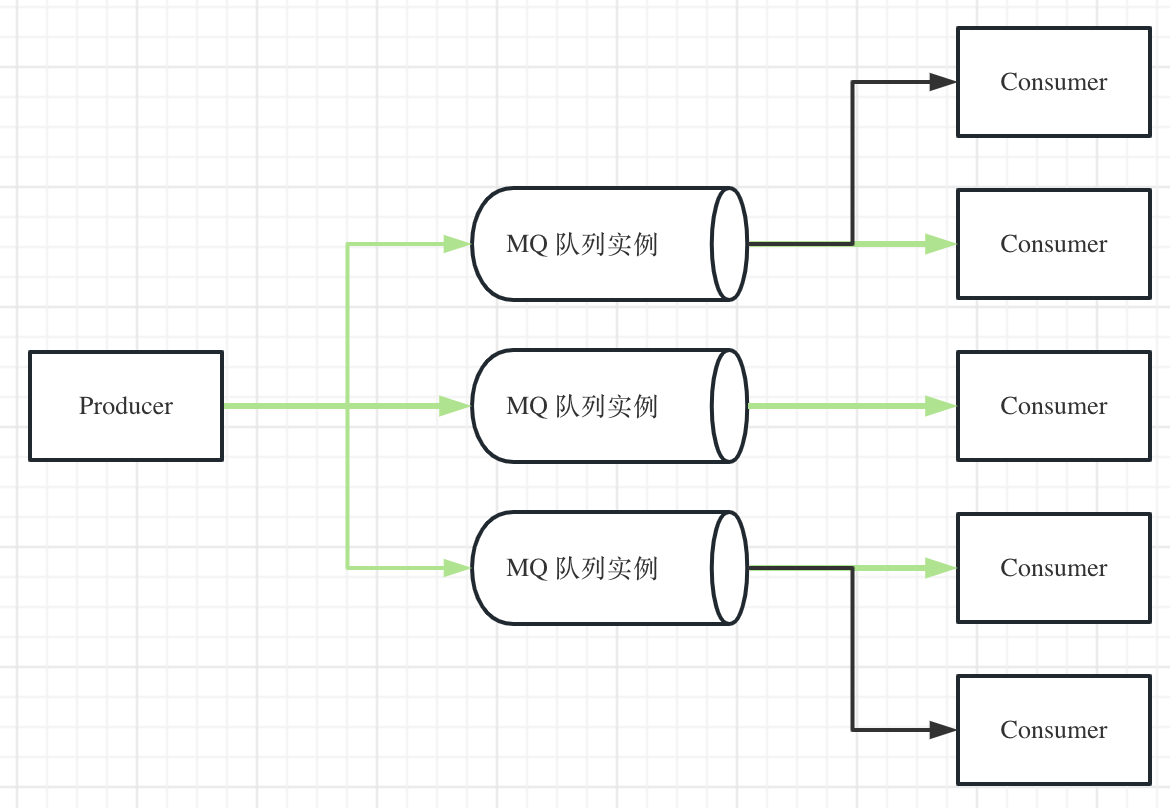
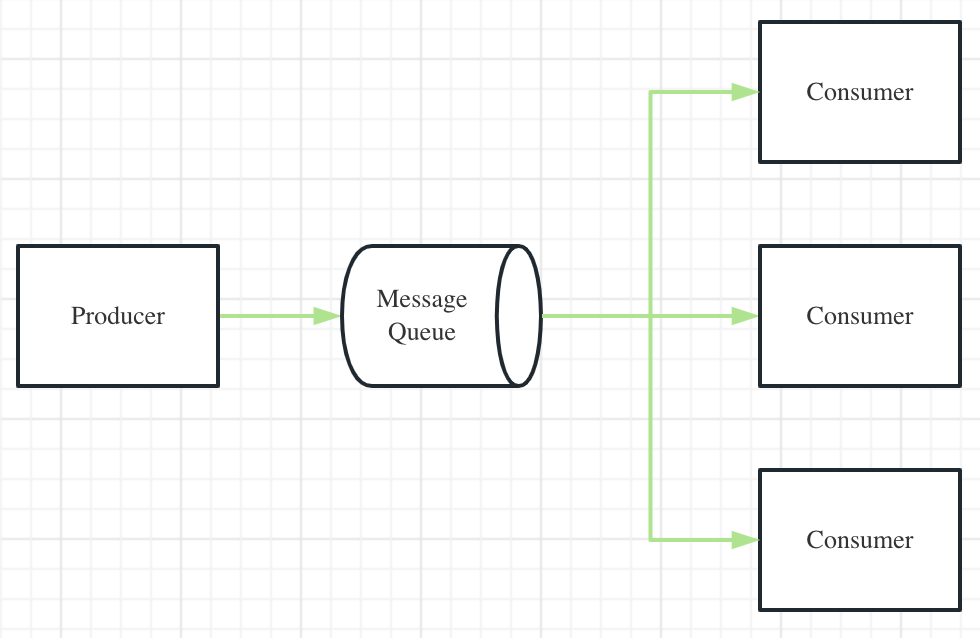
消息队列

diff --git a/_posts/2023-04-01-mq.md b/_posts/2023-04-01-mq.md
@@ -4,7 +4,7 @@ title: 消息队列的基本概念
 date: 2023-04-01 10:15:00+0800
 description: 消息队列概念梳理
 tags: MQ
-categories: Database MQ
+categories: MQ
 giscus_comments: true
 
 toc:
@@ -12,6 +12,7 @@ toc:
   - name: 为什么引入消息队列
   - name: 消息队列的使用场景
   - name: 消息队列关注的功能
+  - name: 总结
 ---
 
 # 什么是消息队列
@@ -140,7 +141,7 @@ public void effectGrant(GrantModel grant) {
 - 如何在多个消费者之间做负载均衡；
 - 消息长时间积压怎么处理；
 
-等等。这些问题都需要在设计系统之初就考虑清楚。
+等等。这些问题都需要在设计系统之初就考虑清楚。这种模式下 MQ 通常使用 `Pull` 方式投递消息，由消费者决定接收消息的时机。
 
 ## 发布/订阅
 
@@ -152,10 +153,10 @@ public void effectGrant(GrantModel grant) {
     </div>
 </div>
 <div class="caption">
-    发布/订阅模式，特点是一个消息发送到多个队列中
+    发布/订阅模式，特点是一个消息被多个消费者接收
 </div>
 
-通常发布/订阅模式和点对点模式是配套出现的，从系统整体看是发布/订阅，从某个事件的消费上看，又是点对点模式。因此点对点模式中需要注意的问题，这里也都需要考虑。
+发布订阅模式在消息队列中也被称为主题（Topic）模式，含义是类似的。MQ 不关心有多少消费者需要接收当前消息，只需要把消息发送给订阅了主题的消费者即可。这种模式下 MQ 通常是使用 `Push` 方式推送消息。
 
 ## 请求/响应
 
@@ -178,3 +179,210 @@ public void effectGrant(GrantModel grant) {
 
 上面提到的异步、解耦和削峰三个作用是站在系统层面的抽象描述，当我们真正需要设计一个消息队列时，需要考虑哪些功能？
 
+首先我们看一下消息队列的基本工作原理：
+<div class="row mt-3">
+    <div class="col-sm mt-3 mt-md-0">
+        {% include figure.html path="assets/img/mq.png" class="img-fluid rounded z-depth-1"%}
+    </div>
+</div>
+<div class="caption">
+    MQ 的基本工作原理
+</div>
+
+生产者和消费者是系统中单独的微服务，从图中我们可以看到在 MQ 工作过程中，需要关注的三个节点：
+1. 生产者到 MQ 的链路；
+2. MQ 本身的工作状态；
+3. MQ 到消费者的链路；
+
+下面列出消息队列在实际应用中常见的一些场景和问题，分别从这三个方面分析如何实现。
+
+## 1. 如何确保消息不丢失
+
+消息不丢失的含义是：生产端发送的消息，最终一定会被消费端成功消费。消息丢失有时候不是必须处理的问题，这取决于业务场景。
+
+在 MQTT 协议中，定义了三种传递消息的[规范](https://docs.oasis-open.org/mqtt/mqtt/v5.0/os/mqtt-v5.0-os.html#_Toc3901234)，这三种规范从低到高为：
+
+| code | name | 说明 |
+|------|-------|------|
+| Qos 0 | At most once delivery | 最多交付一次。也就是说允许丢失消息，但不会有重复消息。一般用在对消息可靠性不高的场景，比如监控数据、日志信息等，允许少量数据丢失
+| Qos 1 | At least once delivery | 最少交付一次。也就是说不允许丢失消息，但会有重复消息
+| Qos 2 | Exactly once delivery | 恰好交付一次。不允许丢失消息，也不允许重复消息。这是最高的级别。在分布式系统中，这是[不可能实现](https://bravenewgeek.com/you-cannot-have-exactly-once-delivery/) 的。业务上可以配合幂等操作模拟 `Exactly once` 的语义
+
+大多数消息队列都实现了 Qos 1 级别的语义，也就是说可以实现消息不丢失，但会有消息重复的情况。
+
+### 发送端如何保证
+
+发送端有三种发送消息的策略：
+
+| 发送策略 | 说明 |
+|----------|------|
+| 同步 | 生产者向 MQ 发起发送消息的 RPC 请求，线程阻塞等待 MQ 的响应。只有当 MQ 返回成功的响应时，生产者才认为消息发送成功。这种方式适用于生产者需要 *实时* 得知消息发送的结果，属于实时性比较强的消息处理方式
+| 异步 | 生产者向 MQ 发送消息，当前流程就完成了。消息是否发送成功，后续由其他线程判断处理。通常可以采用轮询消息发送结果、MQ 发起回调通知等方式获取消息的发送状态，这种方式适用于较为重要，但不需要当时关心发送结果的消息
+| Oneway | 生产者发送消息后就不再关注后续结果。适用于不太重要的消息，丢失个别消息也不影响处理的场景，例如监控指标、INFO 日志等
+
+上面提到的三种发送策略，首先 `Oneway` 是无法保证消息在发送过程中不丢失的，同步和异步两种方式生产者都可以得知消息的发送状态，如果 MQ 超时未返回或者返回错误的结果，生产者就可以通过重试继续发送消息，直到确认消息发送成功。
+
+### MQ 端如何保证
+
+MQ 把接收到的消息首先存放在内存中。内存中消息随着服务断电就会丢失，如果要保证可靠的消息传递，MQ 需要将接收到的消息持久化，然后再向生产者返回确认信息。
+
+### 消费端如何保证
+
+消费端需要确保消息正常处理后，再发送 `ack` 给 MQ，通知 MQ 可以移除该消息。如果消费端的响应因为网络问题等原因没有返回给 MQ，MQ 就不能移除该消息，需要尝试再次投递。这种处理方式可能导致重复消费问题，需要下游业务做幂等处理（通过数据库唯一主键，或者在 Redis 中保存消费过的消息等方式）。
+
+> 重试是一种业务上的冗余保证，但这种方式也会带来一些问题：
+> 1. 正如上面提到的，重试会有重复消费的问题；
+> 2. 有些情况重试没有意义，只会消耗资源，例如业务逻辑异常或者下游服务宕机等；
+> 3. 如果下游服务压力太大导致响应变慢，这时候重试只会加剧下游的压力；
+
+## 2. 如何保证顺序消费
+
+顺序消费的含义是：消费端严格按照生产端发送消息的顺序进行消费，上一个消息没有消费完成之前，不允许消费下一个消息。因为在许多场景下，消息对应的业务都有严格的先后顺序，比如 `下单 -> 支付 -> 扣减库存`，如果顺序搞反，会出现不可预估的错误。
+
+我们先看一下，MQ 在什么场景下会出现消息顺序错误的情况。首先进入到队列中的消息是有序的，假设队列中存在三条消息：`C -> B -> A`，需要严格按照 ABC 的顺序执行。有两个消费端（C1 & C2）订阅该队列的消息。假设 C1 首先获取到消息 A 进行消费，C2 获取到消息 B 进行消费，此时 C1 因为故障或网络问题导致消费失败，但 C2 消费 B 消息成功，此时 C2 再次获取下一个消息，就会获取到未消费的 A 消息，导致消息的消费顺序错误。
+
+消费顺序错误的根本原因是有多个消费端同时消费同一个队列的消息。因为不同消费端的消费速度不同，甚至是消费结果都无法事先预估，消费失败后进行重试，就会出现顺序不一致的情况。因此限制消费顺序需要从根本上避免多个消费端争抢消息的局面。常规的处理方式就是一个队列对应一个消费端，发送端将相同业务发送到固定的队列中，消费端在消费成功后返回 `ack`，防止出现消息丢失，也严格限制了消费顺序。
+
+## 3. 如何处理重复消息
+
+在消息不丢失的问题中已经阐述过，MQ 是无法避免重复消息的。通常的做法是在消费端做好幂等处理，即使接收到重复消息也可以减小影响。
+
+通过给消息附加业务唯一性标识 key，消费端保存消费过的消息唯一 key，判断该消息是否已经消费过。
+
+> 参考：[如何处理消费过程中的重复消息](https://learn.lianglianglee.com/%E4%B8%93%E6%A0%8F/%E6%B6%88%E6%81%AF%E9%98%9F%E5%88%97%E9%AB%98%E6%89%8B%E8%AF%BE/06%20%20%E5%A6%82%E4%BD%95%E5%A4%84%E7%90%86%E6%B6%88%E8%B4%B9%E8%BF%87%E7%A8%8B%E4%B8%AD%E7%9A%84%E9%87%8D%E5%A4%8D%E6%B6%88%E6%81%AF%EF%BC%9F.md)
+
+但幂等处理有局限性，除非是没有副作用的消息，比如内存中计算、落库等操作，可以通过一定手段达到幂等。但如果消息有副作用，例如发送邮件，这个保证幂等就比较困难了，需要做很多额外工作，最好的方式是将副作用从消息中拆分出来单独处理。
+
+## 4. 如何处理消息积压
+
+消息积压的含义是：下游消费端的消费能力小于上游服务的生产能力，导致 MQ 内积压了大量消息来不及消费。这种情况如果不及时处理，就可能导致 MQ 服务崩溃，引起更大的故障。
+
+### 发送端如何处理
+
+发送端对于消息积压，能做的不多。最多的就是梳理业务逻辑，减少不必要的消息。如果发送端由于突发流量导致消息激增，可以根据业务场景决定是否采取服务降级处理，减少下游的压力。
+
+### MQ 如何处理
+
+MQ 事先预留好足够的容量存放消息。如果遇到上游的突发流量，超过了 MQ 本身的负载能力，需要紧急扩容。MQ 的扩容有两种思路：
+- 横向扩容。增加 MQ 集群的节点，提高系统整体的吞吐量。如何进行热扩容，是需要考虑的问题；
+- 纵向扩容。增加 MQ 锁在物理机的内存和磁盘容量。
+
+如果 MQ 积压的消息已经触发了磁盘存储的阈值，这种情况有两种处理方式：
+1. 采取 `背压 backpressure` 的策略，对发送端返回错误消息，拒绝发送端后续的消息，直到 MQ 本身的压力得到缓解。这种方式适用于不太重要的业务和消息；
+2. 如果是重要数据，这个时候就没有其他办法了，只能先丢弃一部分数据，事后再进行补偿。
+
+### 消费端如何处理
+
+消费端的消费能力赶不上发送端的发送速度，这是消息积压的根本原因。因此如果 MQ 已经发生消息积压，就需要紧急提高消费端的处理能力。通常的处理方式是临时扩容：
+
+1. 首先如果是 consumer 出现 bug 导致消费失败，需要尽快修复或回滚代码，恢复 consumer 的消费能力；
+2. 然后临时在 MQ 上创建原先 10 倍或者 20 倍的队列，写一个临时分发消息的程序，将积压的消息分发到扩容后的队列上；
+3. 部署原先 10 倍的 consumer 实例，用来消费新队列的消息；
+4. 当 MQ 中的消息被消费完之后，视情况恢复原先的架构；
+
+如果消息设置了过期时间（RabbitMQ 可以设置消息的 TTL），超过过期时间的数据会被 MQ 丢弃，这个时候就不是消息积压，而是丢失数据了。这种情况临时扩容已经来不及，只能事后补偿。在流量低谷时间段，手动查询丢失的数据，把消息重新发送到 MQ 中再次消费。
+
+## 5. 如何支持事务消息
+
+什么是事务消息？不同的 MQ 对此的定义不同。
+
+RocketMQ 的定义是 *绑定在发送端本地事务上的消息，事务提交和消息成功发送是一组原子性操作，只能同时成功或失败*，这个定义接近于我们通常理解的事务。
+Kafka 的定义是 *发送多个跨 partition 的消息，保证这些消息同时成功或同时失败，没有中间状态*，这是 Kafka 在流式数据中保证 `Exactly once delivery` 的机制。
+
+我们这里讨论 RocketMQ 语义的事务消息。先看一下通过传统消息如何支持事务消息的语义：
+
+{% mermaid %}
+sequenceDiagram
+    participant P as Producer
+    participant MQ as Message Queue
+    Note left of P: 本地事务已提交
+    P->>+MQ: send msg
+    MQ->>-P: response
+{% endmermaid %}
+<div class="caption">
+  本地事务提交后再向消息队列发送消息
+</div>
+
+> 为什么不在事务内最后发送消息？如果网络延迟高的话，事务就会长时间不结束，事务内锁定的资源也就无法释放，会影响系统的性能。因此最好避免大事务
+
+这种方式可以实现大部分事务消息的功能，但也有一些意外情况需要处理，后面我们统一描述。
+
+接下来我们看一下 *事务消息* 是如何处理的：
+{% mermaid %}
+sequenceDiagram
+    participant P as Producer
+    participant MQ as Message Queue
+    Note over P,MQ: 半消息是消费端无法获取的消息
+    P->>+MQ: send half msg
+    MQ->>-P: response
+    activate P
+    Note left of P: 开始执行本地事务
+    deactivate P
+    alt 本地事务提交
+        P->>+MQ: send commit msg
+        Note right of MQ: 投递半消息
+        MQ->>-P: response
+    else 本地事务回滚
+        P->>+MQ: send rollback msg
+        Note right of MQ: 删除半消息
+        MQ->>-P: response
+    end
+    opt 如果确认消息发送发送失败
+        P--xMQ: send commit/rollback msg failed
+        Note right of MQ: MQ 主动检查事务状态
+        MQ->>P: check transaction status
+    end
+{% endmermaid %}
+<div class="caption">
+  RocketMQ 的事务消息处理流程
+</div>
+
+参考[RocketMQ 的事务消息](https://rocketmq.apache.org/zh/docs/featureBehavior/04transactionmessage/)：
+<div class="row mt-3">
+    <div class="col-sm mt-3 mt-md-0">
+        {% include figure.html path="assets/img/rocketmq-trans.png" class="img-fluid rounded z-depth-1"%}
+    </div>
+</div>
+
+现在对比一下传统消息和事务消息在一些异常情况下对事务的支持：
+
+| 问题 | 传统消息 | 事务消息 |
+|-----|----------|-----------|
+| 正常的分布式事务 | 支持 | 支持 
+| 生产者提交本地事务后意外宕机 | 需要额外的补偿机制 | MQ 主动查询事务状态，如果是生产者是集群则不影响下游业务，否则会主动回滚半消息，业务上再进行额外补偿
+| 生产者提交本地事务后发送消息失败 | 本地重试，多次重试不成功就额外补救 | 如果是网络抖动，MQ 的主动轮询机制能自动恢复事务，不影响下游业务
+| 生产者无法确认消息是否发送 | 本地重试，可能导致重复消息，需要下游做幂等处理 | MQ 可以过滤重复消息，不影响下游
+
+可以发现，事务消息对待异常情况，有更多的容错机制，可以更好地支持分布式事务。
+
+## 6. 如何支持延时消息
+
+延时消息的定义是：生产端发送消息，消息需要等待一段时间后才能被消费端接收。
+
+延时消息常见的使用场景包括：下单成功后发送检查支付的延时 30 min 的消息，下游服务最终消费消息时判断订单是否支付，如果没有支付就取消该订单。
+
+目前市面上开源的消息队列中，RocketMQ 是原生支持延时消息的（但开源版本和商业版本支持力度不同）；RabbitMQ 本身不支持，可以通过插件支持，也可以通过死信队列支持；Kafka 本身也不支持延时消息。
+
+> 参考：[如何在 MQ 中实现支持任意延迟的消息？](https://www.cnblogs.com/hzmark/p/mq-delay-msg.html)
+
+个人感觉延时消息最好的实现方式是在生产端。通过定时任务处理，只有在需要的时间点才生成消息发送给 MQ，这样 MQ 也无需消耗额外的资源去处理这些暂时无法消费的消息。
+
+## 7. 如何支持优先级消息
+
+优先级消息的含义是：让 MQ 按照消息优先级投递，高优先级的消息可以“插队”进行优先处理，优先级消息可以保证在下游消费端消费能力有限，MQ 开始积压消息时，优先处理高优先级的消息。
+
+优先级消息适用于相同业务但处理对象有等级区分的场景，比如同样是下单操作，服务会给 VIP 会员提供更大的可用性保证。
+
+RabbitMQ 在 3.5.0 版本开始支持优先级队列，需要事先配置好队列优先级，不可以动态调整。RocketMQ 和 Kafka 不支持优先级队列。 
+
+## 8. 如何实现 MQ 高可用
+
+MQ 作为微服务架构下重要的中间件，如果出现故障，会同时影响上下游的业务，因此保证 MQ 自身的高可用十分重要。
+
+RabbitMQ 支持镜像集群模式，集群中所有节点存放相同的数据，如果某个节点宕机，其他节点也可以提供服务，实现高可用方案。
+
+Kafka 本身的架构也支持实现高可用。
+
+# 总结
+
+本章节梳理了消息队列的一些通用概念和思想，具体的消息队列产品放到后续整理。

diff --git a/_posts/2023-04-06-redo-undo.md b/_posts/2023-04-06-redo-undo.md
@@ -1,0 +1,18 @@
+---
+layout: post
+title:  MySQL 的 redo log 和 undo log
+date:   2023-04-06 10:45:16 +8:00
+description: edo log 和 undo log 的区别和用途
+tags: 数据库 事务 日志
+categories: Databases
+giscus_comments: true
+
+---
+
+# 什么是 REDO LOG
+
+
+
+# 什么是 UNDO LOG
+
+
